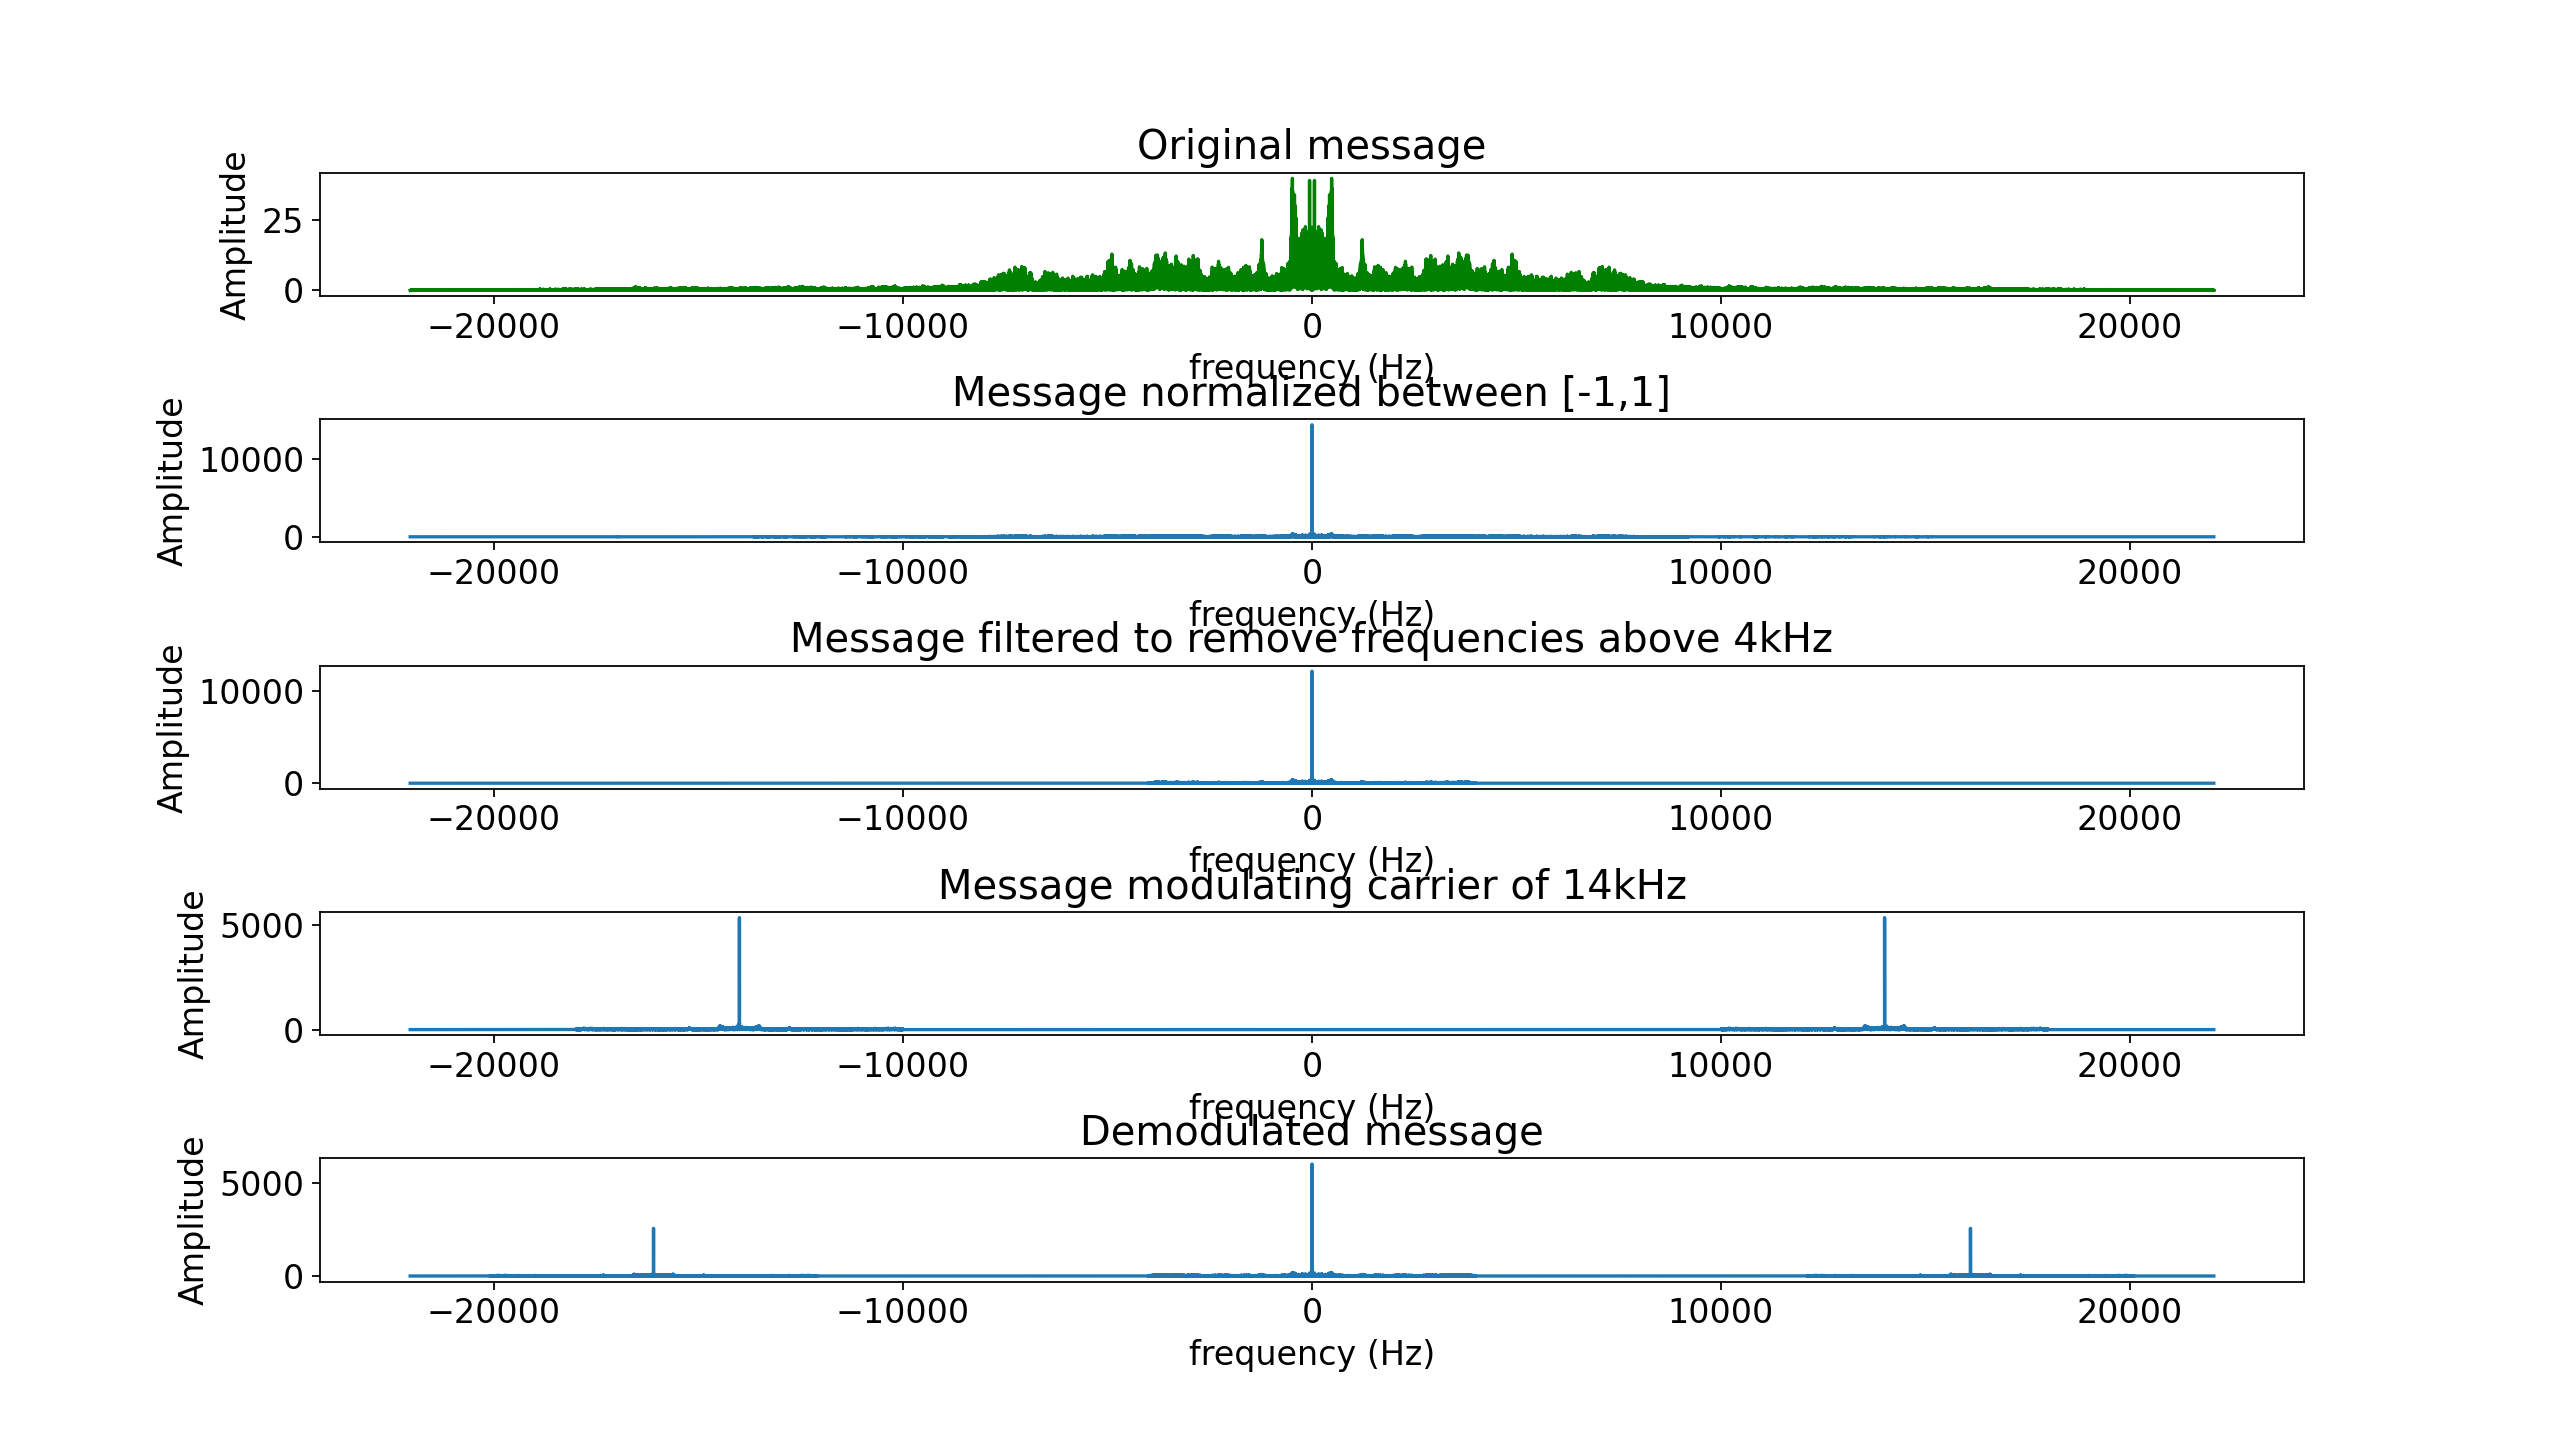
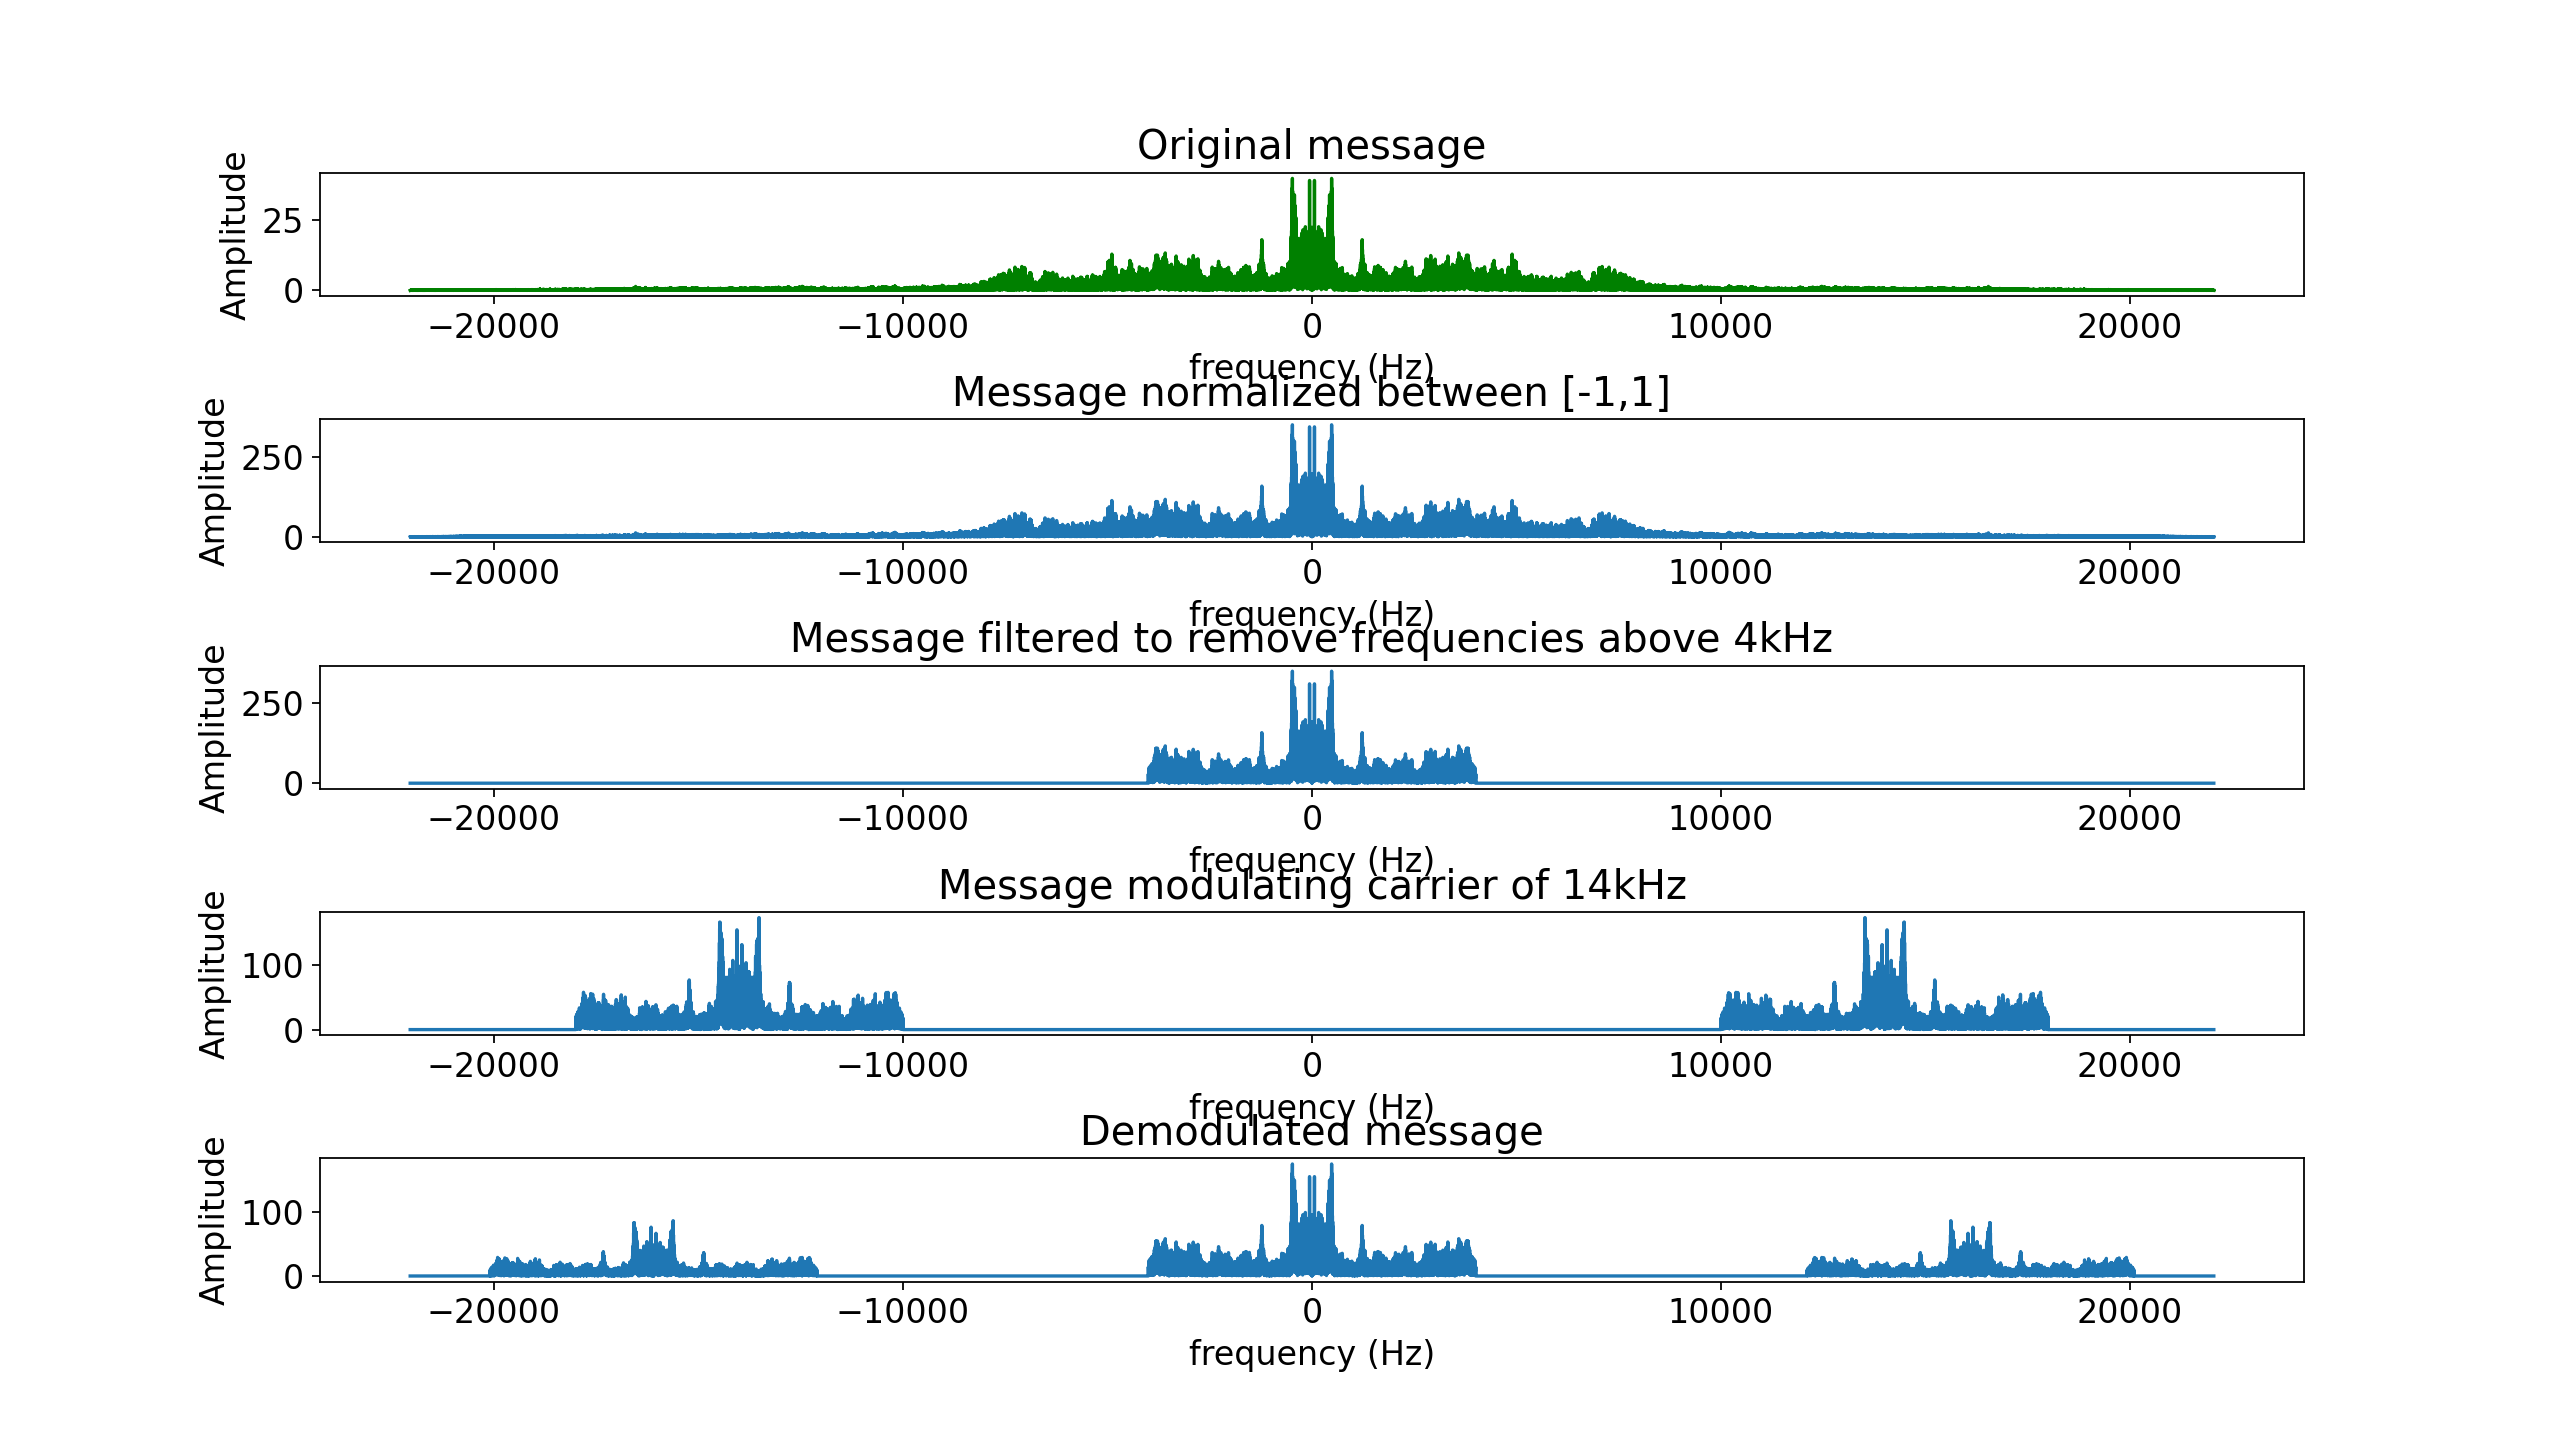
Finished project.

diff --git a/Part2/transmit.py b/Part2/transmit.py
@@ -23,7 +23,8 @@ def generateSin(freq, time, fs):
 def normalizeArray(arr):
     # https://stackoverflow.com/questions/1735025/how-to-normalize-a-numpy-array-to-within-a-certain-range
     # Normalize between [-1,1]
-    return 2.*(arr - np.min(arr))/np.ptp(arr)-1
+    a = max(abs(arr))
+    return arr/a
 
 def LPF(signal, cutoff_hz, fs):
         from scipy import signal as sg
@@ -44,10 +45,10 @@ def modulateSignal(signal, fs):
 
     return signal * carrier
 
-playRec = False
-playNormalized = False
-playFiltered = False
-playModulated = False
+playRec = True
+playNormalized = True
+playFiltered = True
+playModulated = True
 playDemodulated = True
 
 data, fs = sf.read("Part2/data/recording.wav")
